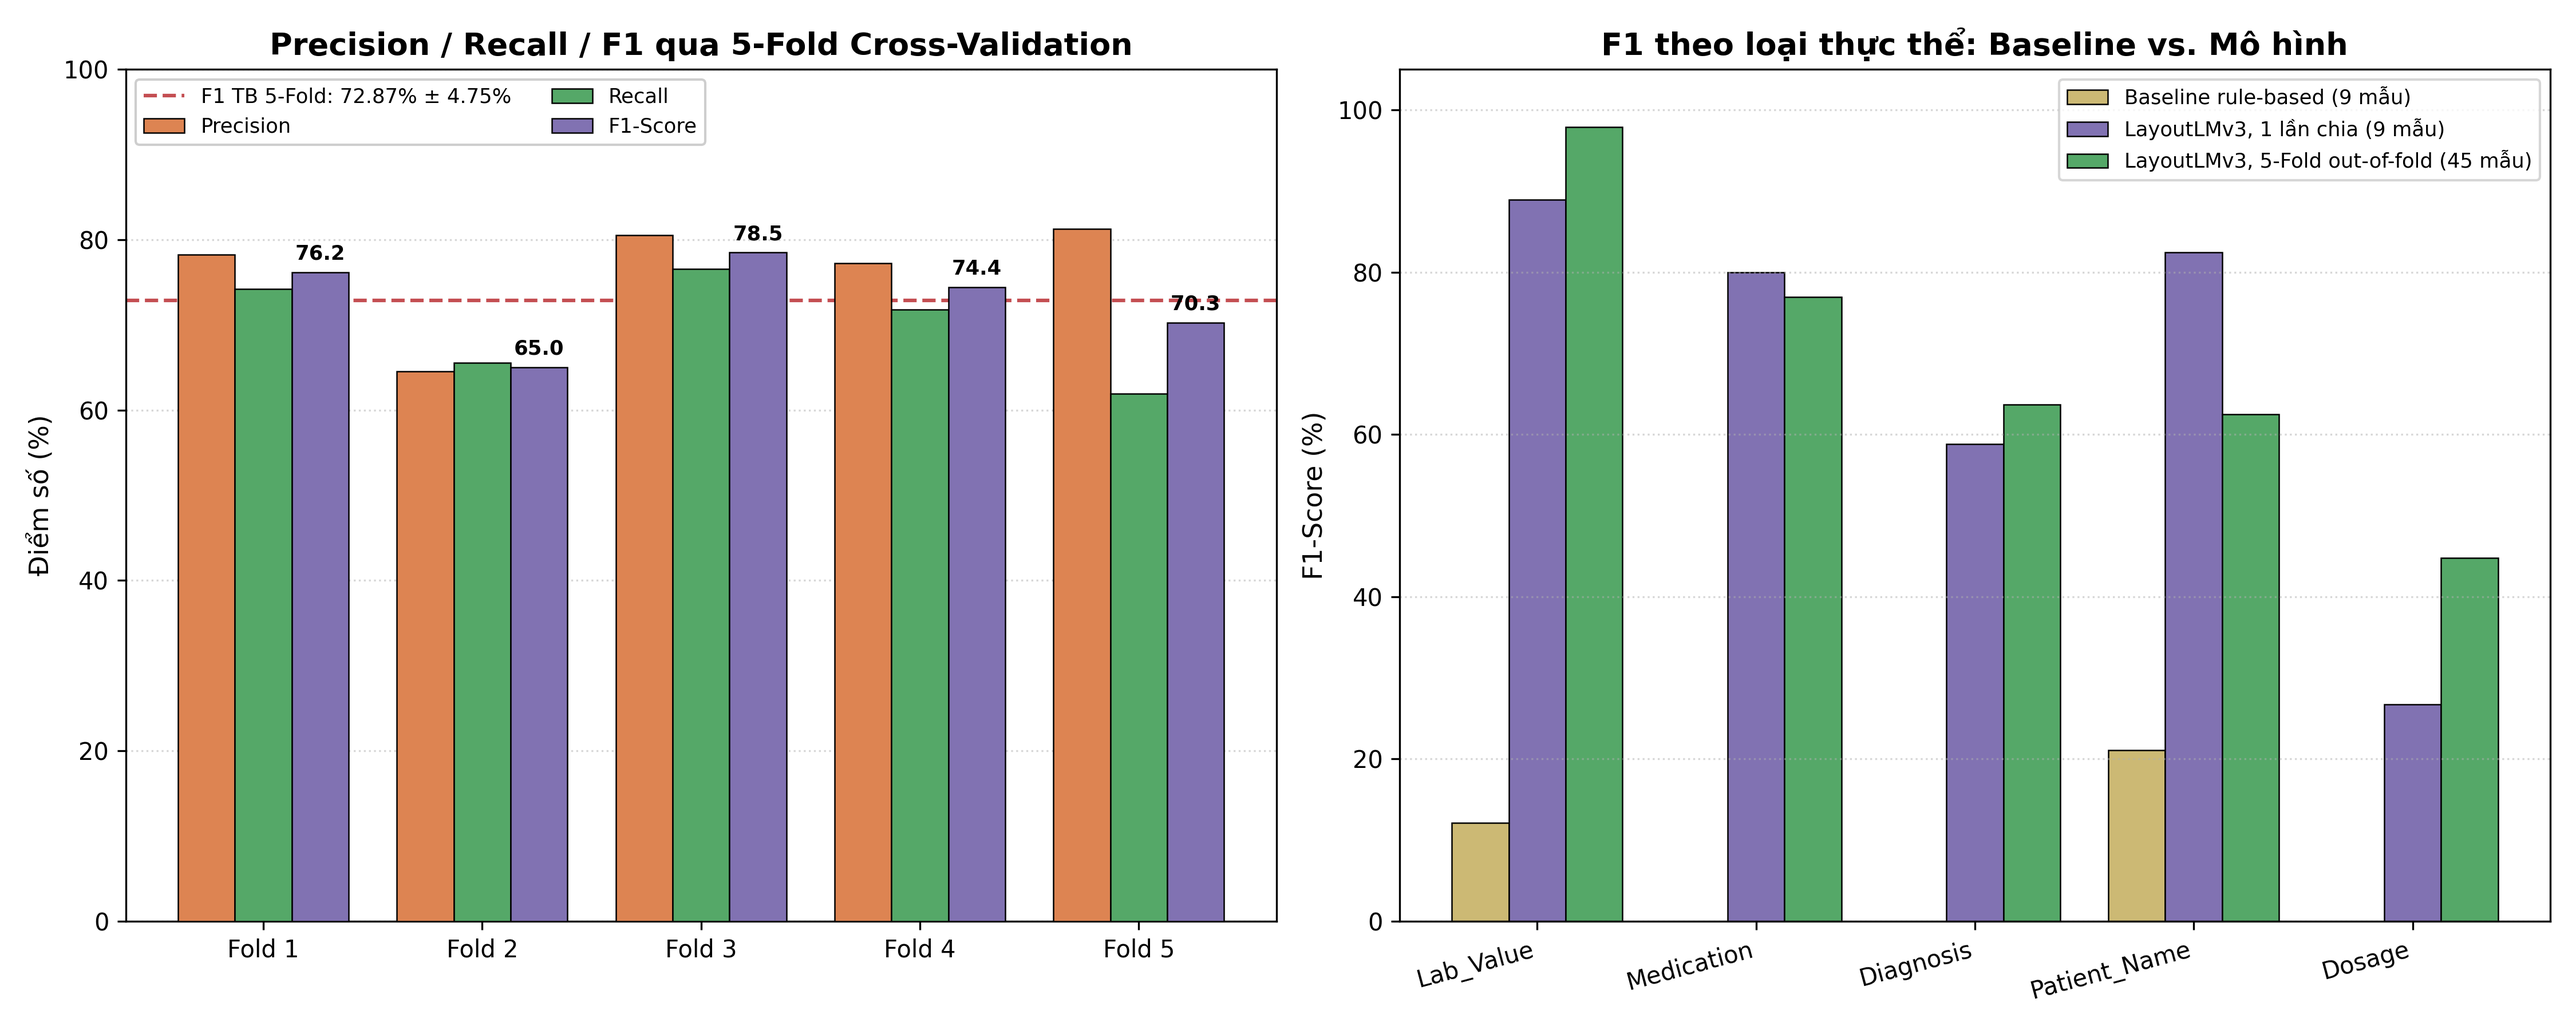
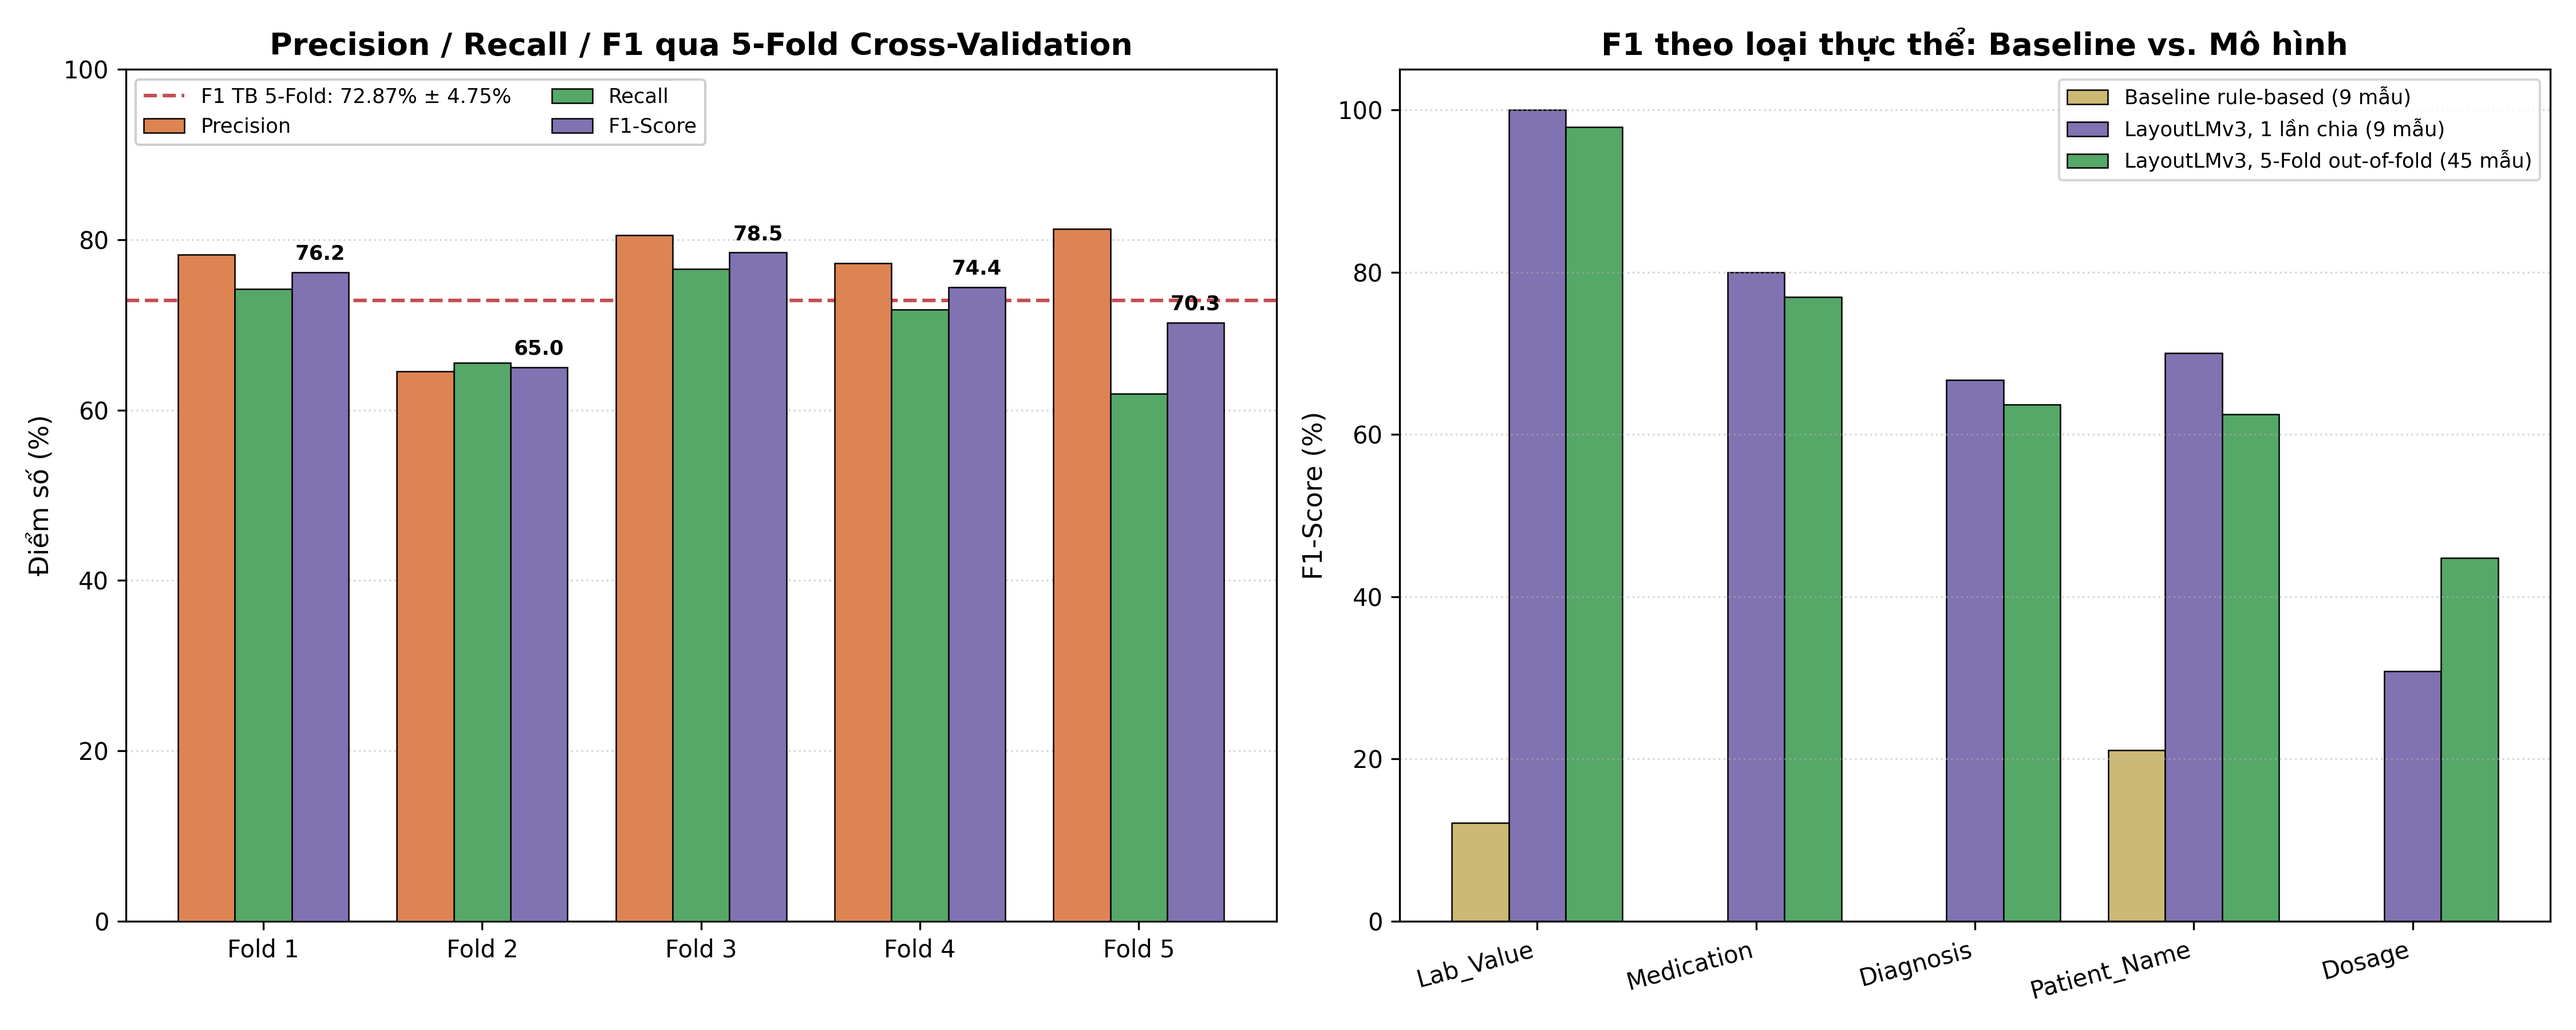
Cập nhật biểu đồ khớp với số liệu sau khi retrain

diff --git a/src/plot_kfold_results.py b/src/plot_kfold_results.py
@@ -22,10 +22,10 @@ PROJECT_ROOT = Path(__file__).resolve().parent.parent
 # và step5c_kfold_cv.py (out-of-fold). Xem README mục "Phân Tích Chi Tiết".
 ENTITY_LABELS = ["Lab_Value", "Medication", "Diagnosis", "Patient_Name", "Dosage"]
 BASELINE_F1 = [12.1, 0.0, 0.0, 21.1, 0.0]
-SINGLE_SPLIT_F1 = [88.9, 80.0, 58.8, 82.4, 26.7]
+SINGLE_SPLIT_F1 = [100.0, 80.0, 66.7, 70.0, 30.8]  # sau khi retrain với weight_decay + EarlyStopping
 OOF_F1 = [97.9, 76.9, 63.7, 62.5, 44.8]
 
-SINGLE_SPLIT_OVERALL_F1 = 72.00
+SINGLE_SPLIT_OVERALL_F1 = 79.39  # sau khi retrain (Step 500, xem README mục Kết Quả)
 
 
 def main():
